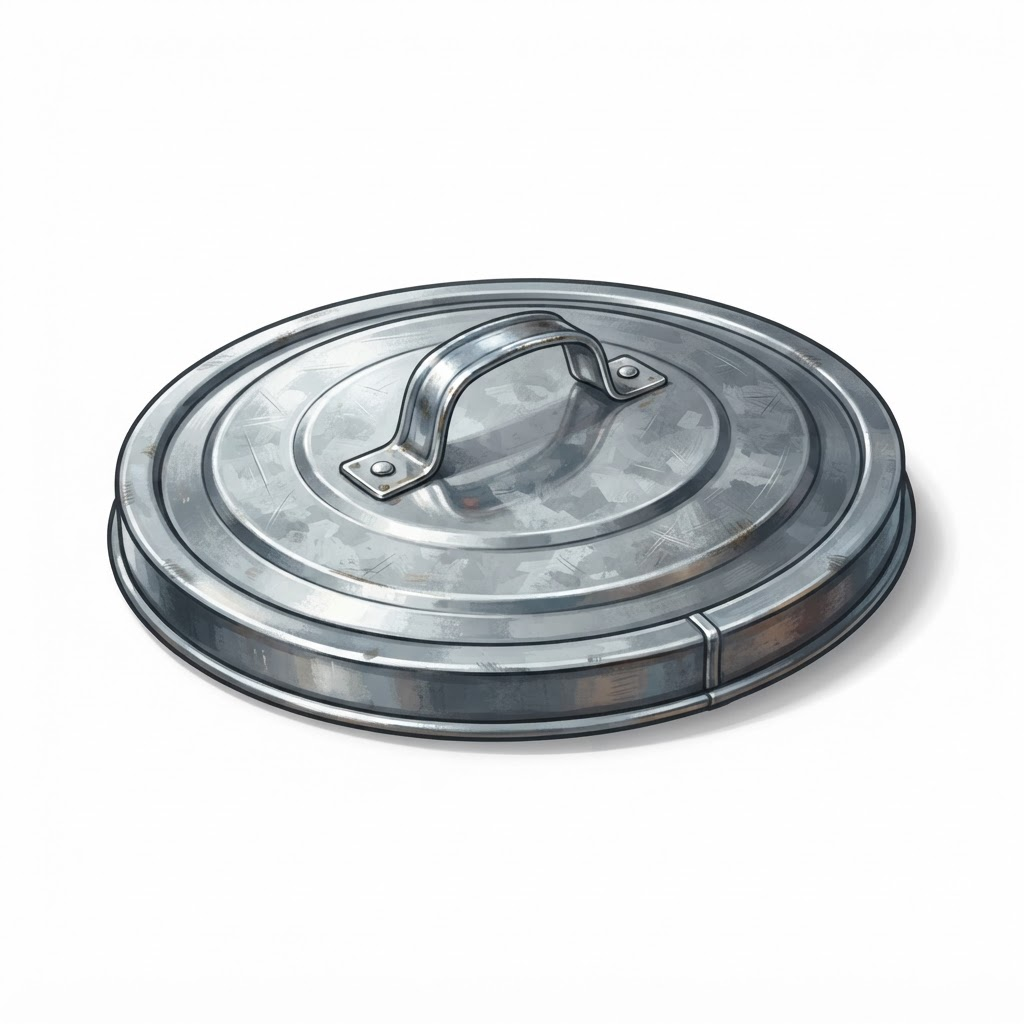
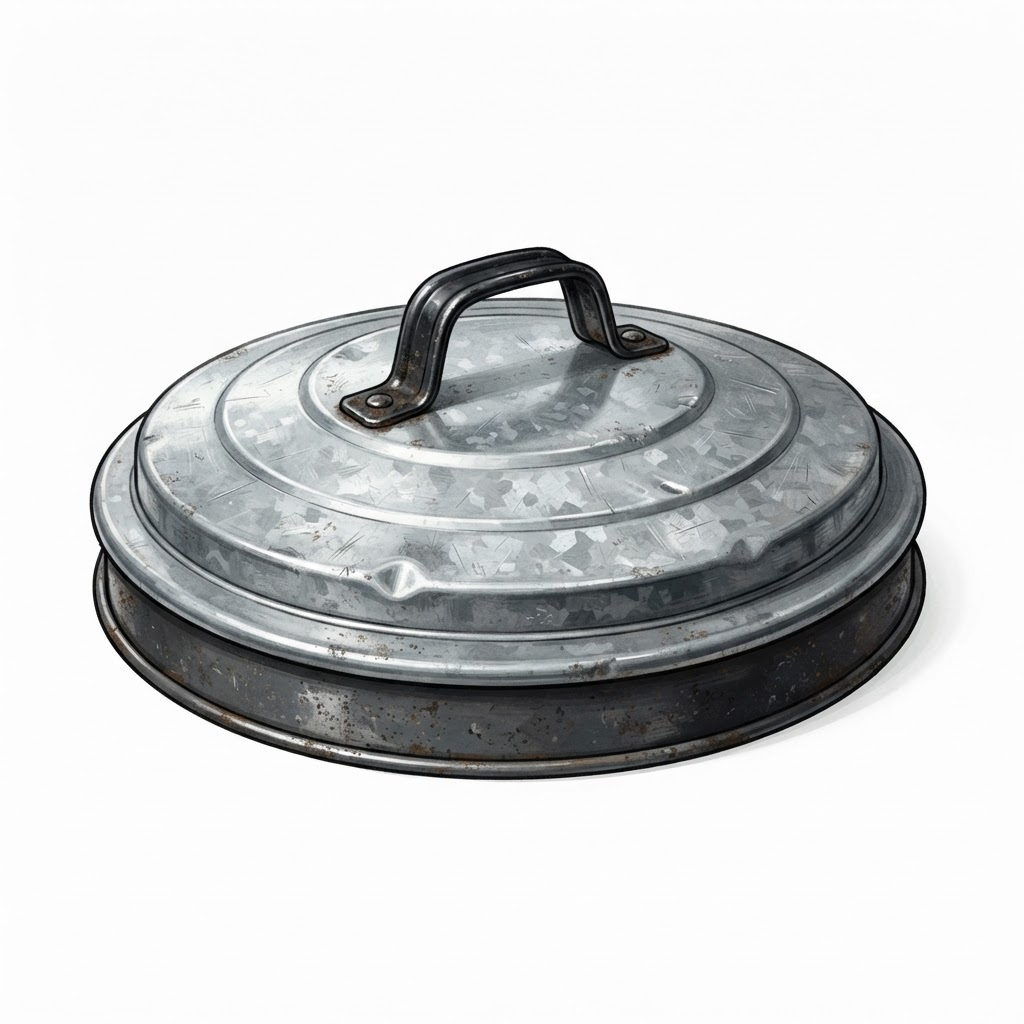
Match trash lid to can artwork

Changed region(s): [[0.0625, 0.2188, 0.9375, 0.7812]]

diff --git a/src/components/SotHomeHero.tsx b/src/components/SotHomeHero.tsx
@@ -58,7 +58,7 @@ export function SotHomeHero() {
               <span className="sr-only">Trash</span>
               <span className="sot-bin-stage relative block w-full max-w-sm">
                 <img src="/images/sot-trash-body.png" alt="Battered silver trash can with recycle symbol" className="sot-bin-body mix-blend-multiply relative z-10 w-full" />
-                <span aria-hidden="true" className={`sot-bin-lid absolute left-1/2 top-[7%] z-20 h-[18%] w-[72%] -translate-x-1/2 rounded-[50%] border-[0.45rem] border-slate-500 bg-gradient-to-b from-slate-300 via-slate-600 to-slate-400 shadow-[inset_0_0.2rem_0.35rem_rgba(255,255,255,0.65),0_0.35rem_0.4rem_rgba(15,23,42,0.22)] ${activeObject === "bin" ? "sot-object-active" : ""}`}><span className="absolute left-1/2 top-1/2 h-2 w-12 -translate-x-1/2 -translate-y-1/2 rounded-full bg-slate-700/80 shadow-inner" /></span>
+                <img src="/images/sot-trash-lid.png" alt="" aria-hidden="true" className={`sot-bin-lid mix-blend-multiply absolute left-1/2 top-[4%] z-20 w-[78%] -translate-x-1/2 ${activeObject === "bin" ? "sot-object-active" : ""}`} />
               </span>
             </button>
           </div>
